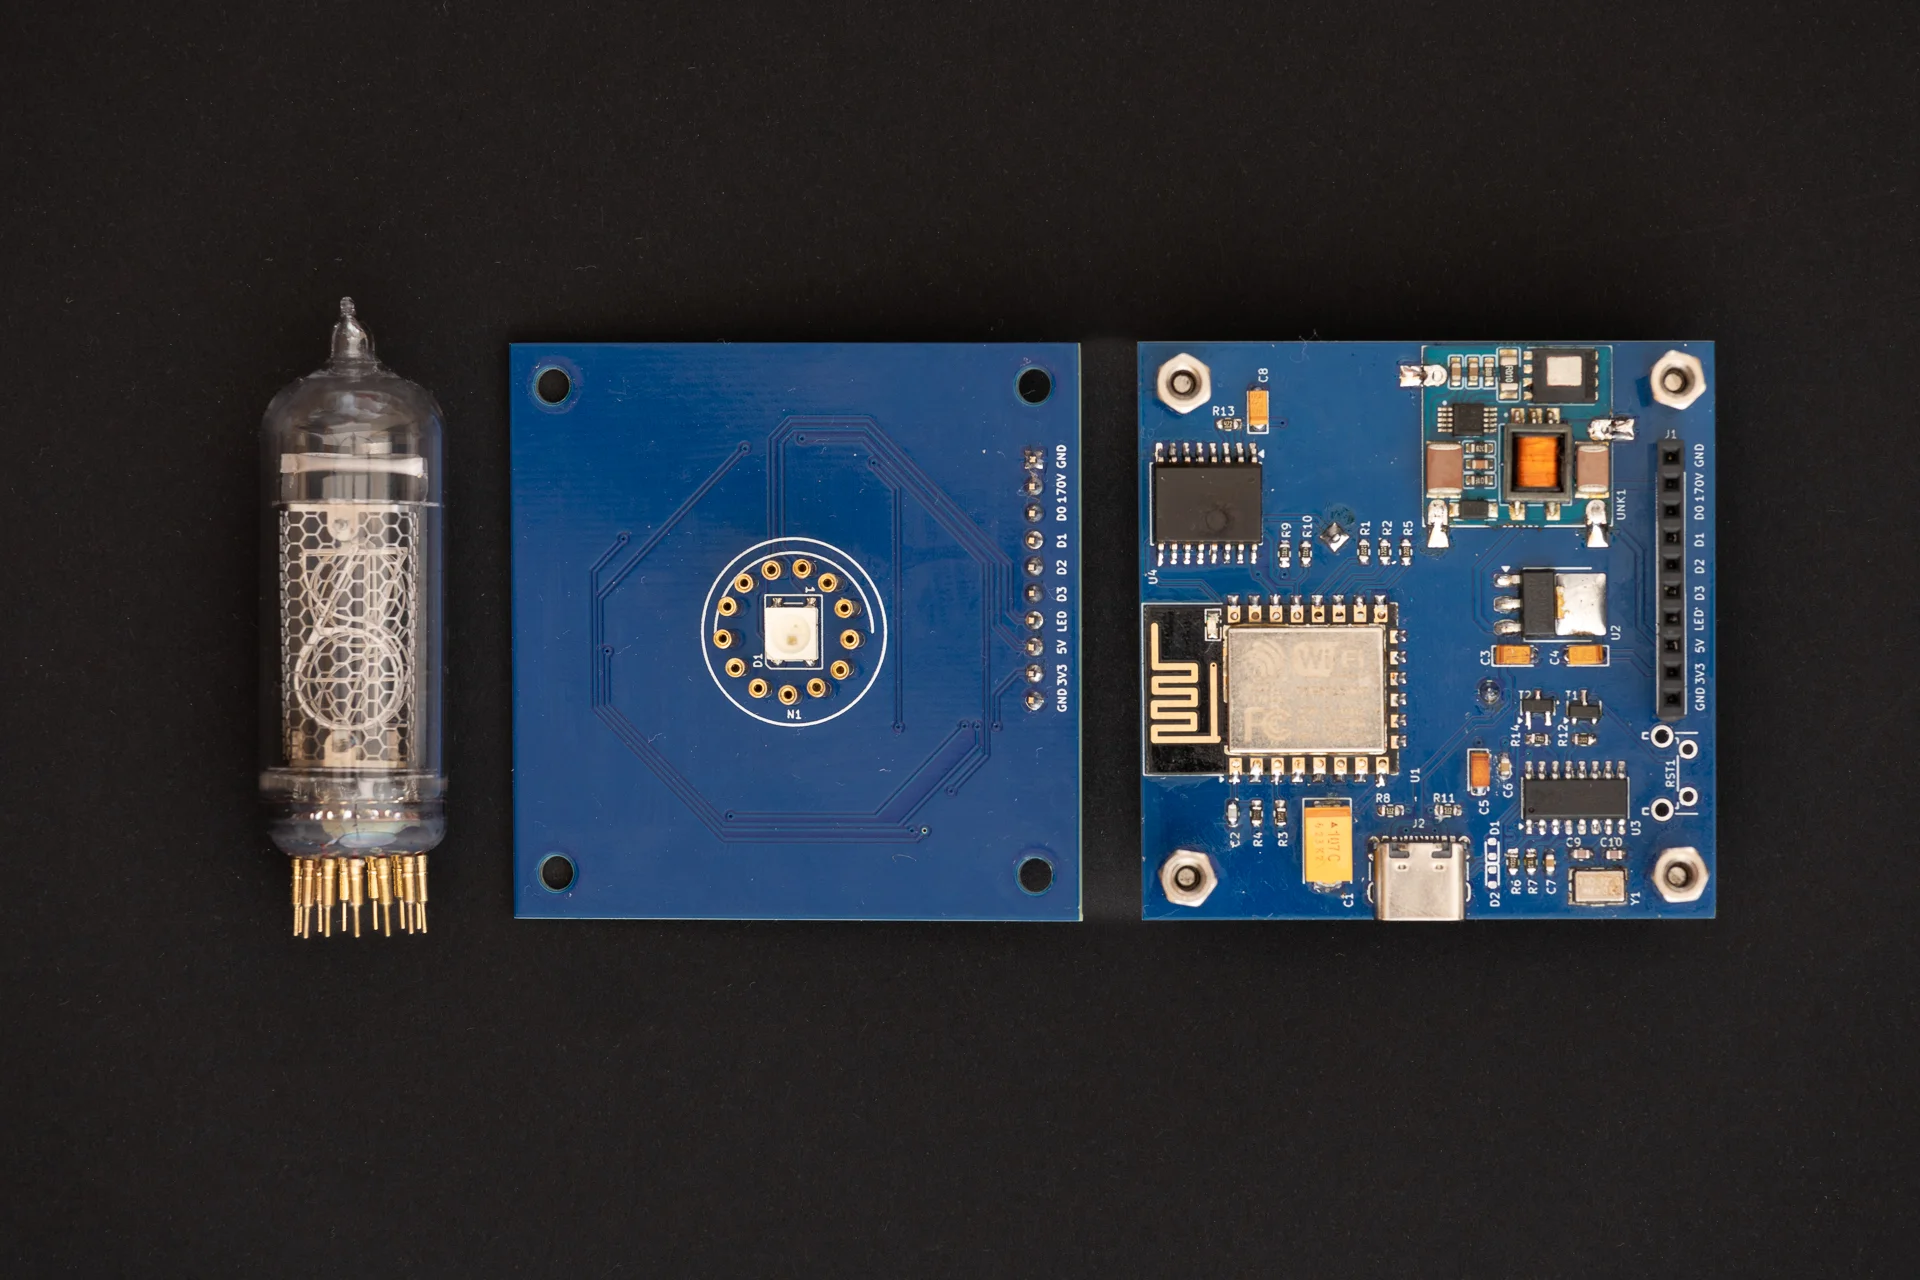
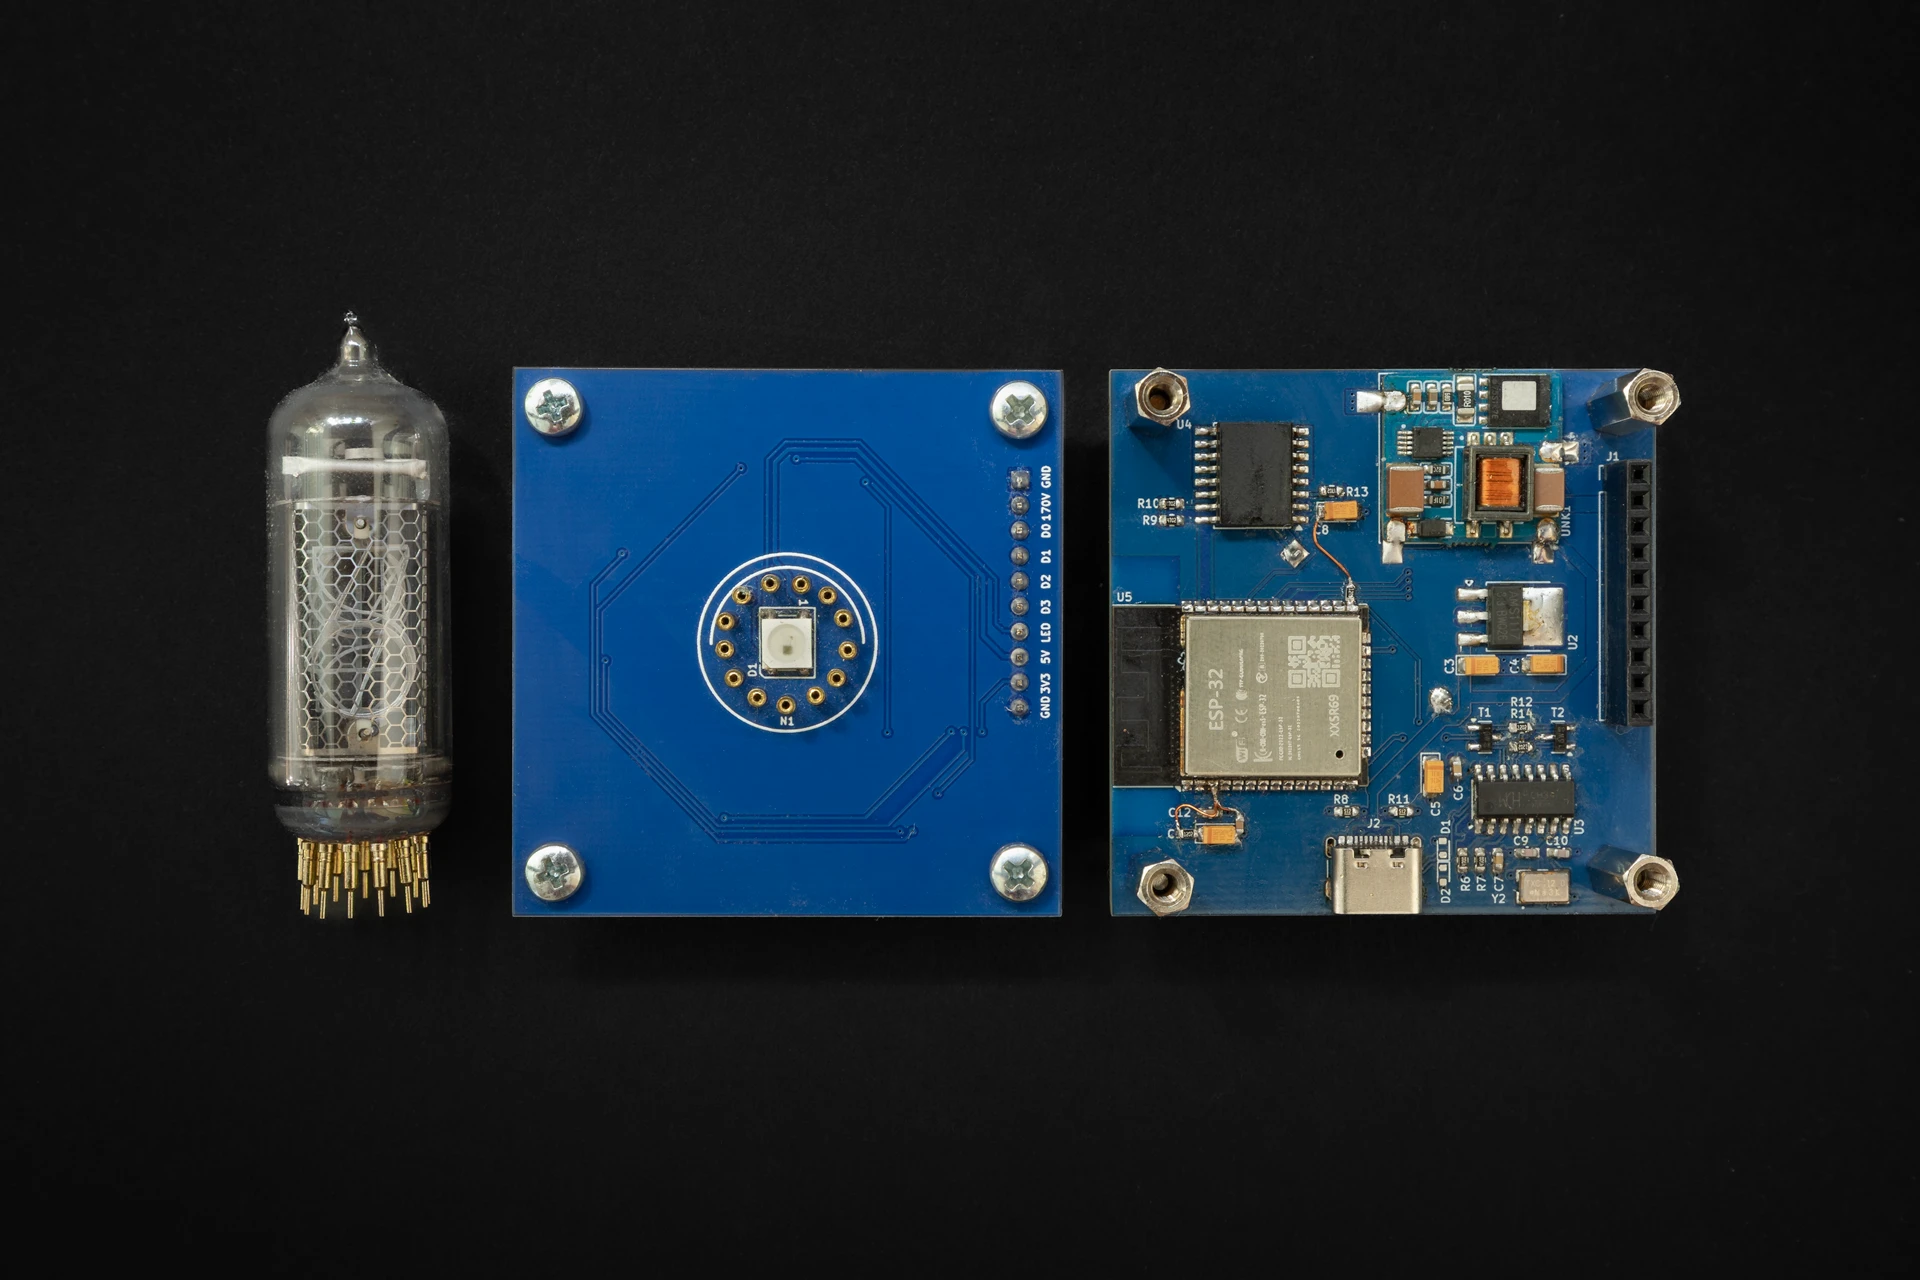
Update assembled PCB image

diff --git a/README.md b/README.md
@@ -90,8 +90,6 @@ Since I recently moved to KiCad, it was a perfect opportunity to try out the PCB
 
 The entire journey from placing the order to receiving the package took less than a week. Incredible! PCBWay did a superb job, PCBs are amazing. I am more than impressed.
 
-![Control and display PCBs for the nixie clock](doc/nixie-clock-pcbs.webp)
-
 ![Assembled control and display PCBs for the Nixie clock](doc/nixie-clock-assembled-pcbs.webp)
 
 ## Enclosure design
